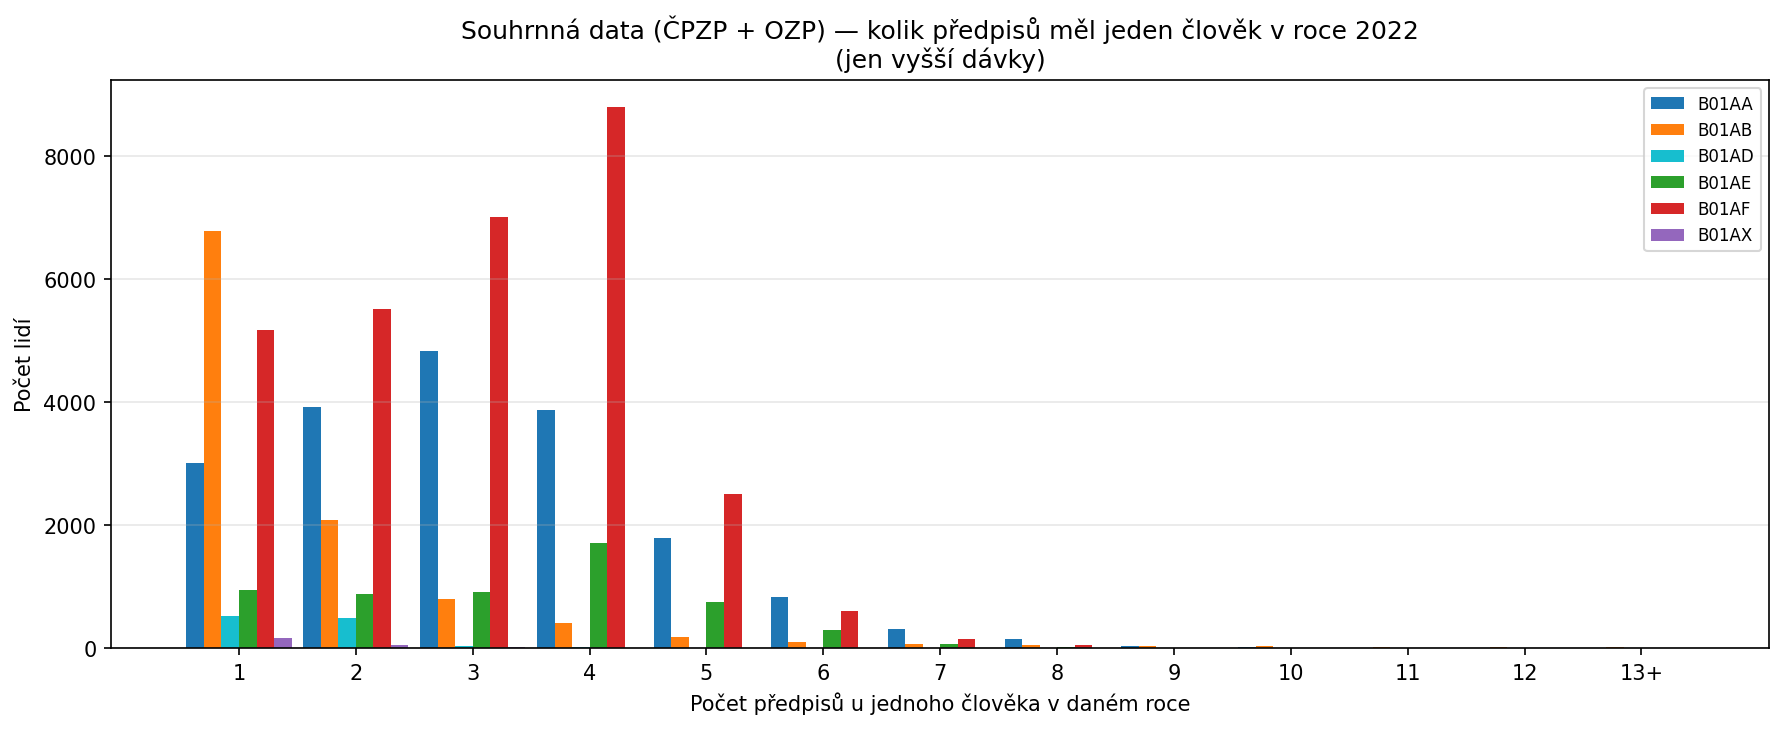
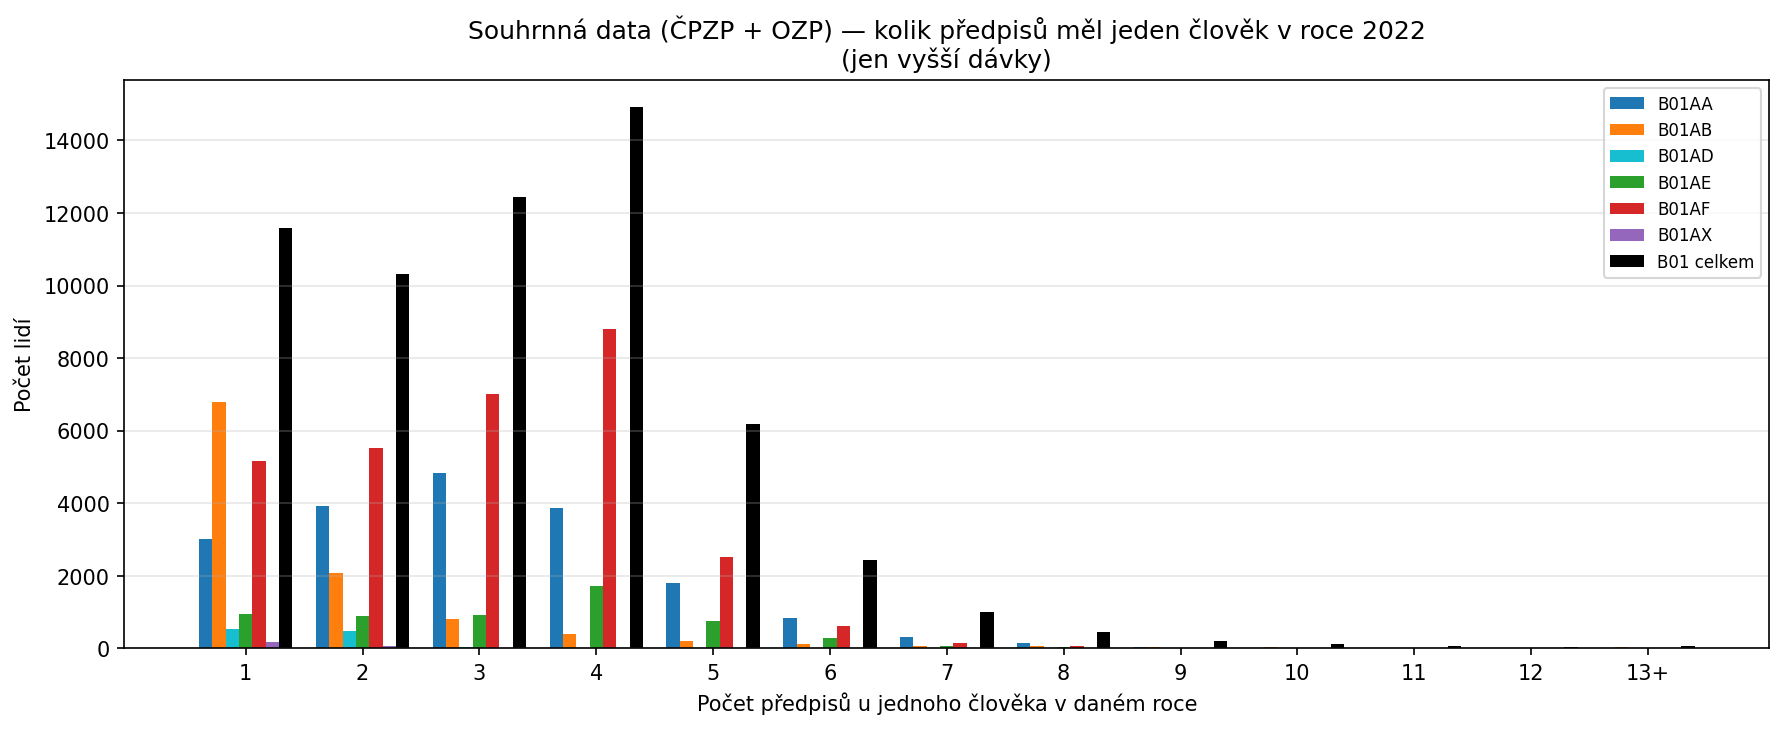
feat(srazlivost): add first-prescription charts, histogram totals and linked chart index

diff --git a/srazlivost/generate_charts.py b/srazlivost/generate_charts.py
@@ -18,7 +18,12 @@ Pro každou pojišťovnu (cpzp, ozp, both_companies) generuje strukturu:
       pro roky 2019–2022: osa x = kolik předpisů dané ATC skupiny měl
       jeden člověk v tom roce, osa y = kolik takových lidí. Sloupec =
       ATC skupina. Jen varianta vyšších dávek (Fraxiparin ≥0,6 ml a
-      terapeutické síly NOAC, viz příloha v charts/README.md).
+      terapeutické síly NOAC, viz příloha v charts/README.md). Černý
+      sloupec "B01 celkem" = předpisy všech skupin u člověka sečtené.
+  charts/<company>/prvopredpisy/<období>/<scope>.png
+      první předpis B01 u člověka v datech, po měsících, očkovaní nad
+      neočkovanými. Preventivní heparin (B01AB mimo jen_vyssi_davky) se
+      nepočítá.
 
 <období>:
   - "2015-2024" — celý rozsah dat, roční popisky osy x
@@ -151,10 +156,10 @@ MONTH_END = date(2023, 12, 1)
 RECENT_START = date(2019, 1, 1)
 
 
-def _read_one(path: Path, id_prefix: str | None) -> pl.LazyFrame:
+def _read_one(path: Path, id_prefix: str | None, cols: list[str]) -> pl.LazyFrame:
     df = (
         pl.scan_csv(path, null_values=["", "NA"], infer_schema_length=20_000)
-        .select(NEEDED_COLS)
+        .select(cols)
         .with_columns(
             pl.col("Id_pojistence").cast(pl.Utf8),
             pl.col("Rok_narozeni").cast(pl.Int64, strict=False),
@@ -169,13 +174,14 @@ def _read_one(path: Path, id_prefix: str | None) -> pl.LazyFrame:
     )
 
 
-def load_company(company: str) -> pl.LazyFrame:
+def load_company(company: str, extra_cols: list[str] | None = None) -> pl.LazyFrame:
+    cols = NEEDED_COLS + (extra_cols or [])
     if company == "both_companies":
-        cpzp = _read_one(OUT_DIR / "CPZP_preskladane.csv", "cpzp:")
-        ozp = _read_one(OUT_DIR / "OZP_preskladane.csv", "ozp:")
+        cpzp = _read_one(OUT_DIR / "CPZP_preskladane.csv", "cpzp:", cols)
+        ozp = _read_one(OUT_DIR / "OZP_preskladane.csv", "ozp:", cols)
         return pl.concat([cpzp, ozp])
     fname = "CPZP_preskladane.csv" if company == "cpzp" else "OZP_preskladane.csv"
-    return _read_one(OUT_DIR / fname, None)
+    return _read_one(OUT_DIR / fname, None, cols)
 
 
 def _sex_agg() -> pl.Expr:
@@ -260,8 +266,8 @@ def build_prescriptions(df: pl.LazyFrame) -> pl.DataFrame:
         )
         .with_columns(_higher_dose_expr().alias("is_higher_dose"))
         .select(
-            "Id_pojistence", "month", "atc5", "age_bucket", "is_vax", "Specializace",
-            "is_higher_dose", "Pohlavi",
+            "Id_pojistence", "Datum_udalosti", "month", "atc5", "age_bucket", "is_vax",
+            "Specializace", "is_higher_dose", "Pohlavi",
         )
     )
     return presc.collect()
@@ -858,6 +864,52 @@ def process_company(
     if extras:
         process_vax_timelines(company)
         process_histograms(company, presc_raw)
+        process_first_prescriptions(company, presc_raw)
+
+
+def first_prescriptions(presc: pl.DataFrame) -> pl.DataFrame:
+    """Jeden řádek na člověka: jeho první předpis z ATC_SUBGROUPS v datech.
+
+    Preventivní heparin se nepočítá (B01AB mimo jen_vyssi_davky, např.
+    Fraxiparin pod 0,6 ml). Kdo má jen ten, prvopředpis nemá. Věk a ATC
+    jsou z toho prvního předpisu."""
+    return (
+        presc.filter(
+            pl.col("atc5").is_in(ATC_SUBGROUPS)
+            & ~((pl.col("atc5") == "B01AB") & ~pl.col("is_higher_dose"))
+        )
+        .sort("Datum_udalosti", "atc5")
+        .unique("Id_pojistence", keep="first", maintain_order=True)
+    )
+
+
+def process_first_prescriptions(company: str, presc_raw: pl.DataFrame | None = None) -> None:
+    label = COMPANY_LABELS[company]
+    print(f"=== {company}: prvopředpisy ===")
+    if presc_raw is None:
+        presc_raw = build_prescriptions(load_company(company))
+    first = first_prescriptions(presc_raw)
+    print(f"  {first.height:,} osob s prvopředpisem")
+    series = atc_series(ATC_SUBGROUPS)
+    for period_slug, period_label, start, monthly_ticks in PERIODS:
+        out_dir = CHARTS_DIR / company / "prvopredpisy" / period_slug
+        for slug, desc, age_scope in AGE_SCOPES:
+            vax_scope = _and(age_scope, pl.col("is_vax"))
+            novax_scope = _and(age_scope, ~pl.col("is_vax"))
+            plot_crosstab_stacked(
+                monthly_atc_counts(first, vax_scope, start=start),
+                monthly_atc_counts(first, novax_scope, start=start),
+                series,
+                f"{label} — první B01 předpis měsíčně: očkovaní vs. neočkovaní "
+                f"({desc}, {period_label}) — bez preventivního heparinu",
+                "Očkovaní",
+                "Neočkovaní",
+                out_dir / f"{slug}.png",
+                n_top=population_size(first, vax_scope),
+                n_bottom=population_size(first, novax_scope),
+                monthly_ticks=monthly_ticks,
+                ylabel="Počet prvopředpisů",
+            )
 
 
 HIST_YEARS = (2019, 2020, 2021, 2022)
@@ -869,15 +921,21 @@ HIST_BIN_CAP = 12
 def prescription_count_bins(
     presc: pl.DataFrame, year: int, subgroups: list[str]
 ) -> dict[str, list[int]]:
-    """Pro každou ATC skupinu počty lidí v koších 1, 2, …, CAP, CAP+.
+    """Pro každou ATC skupinu a pro TOTAL_LABEL počty lidí v koších 1, 2, …, CAP, CAP+.
 
     Člověk s nulou předpisů v dané skupině v tom roce tu není. Kdo má
-    předpisy ve dvou skupinách, je v každé skupině zvlášť (nesčítá se)."""
+    předpisy ve dvou skupinách, je v každé skupině zvlášť. V TOTAL_LABEL
+    se jeho předpisy ze všech `subgroups` sečtou."""
     n_bins = HIST_BIN_CAP + 1
+    year_presc = presc.filter(
+        (pl.col("month").dt.year() == year) & pl.col("atc5").is_in(subgroups)
+    )
+    per_group = year_presc.group_by("Id_pojistence", "atc5").len()
+    per_person = (
+        year_presc.group_by("Id_pojistence").len().with_columns(pl.lit(TOTAL_LABEL).alias("atc5"))
+    )
     counts = (
-        presc.filter((pl.col("month").dt.year() == year) & pl.col("atc5").is_in(subgroups))
-        .group_by("Id_pojistence", "atc5")
-        .len()
+        pl.concat([per_group, per_person.select(per_group.columns)])
         .with_columns(
             pl.when(pl.col("len") > HIST_BIN_CAP)
             .then(pl.lit(HIST_BIN_CAP + 1))
@@ -888,7 +946,7 @@ def prescription_count_bins(
         .len()
         .rename({"len": "people"})
     )
-    out = {atc: [0] * n_bins for atc in subgroups}
+    out = {atc: [0] * n_bins for atc in subgroups + [TOTAL_LABEL]}
     for atc, bin_id, people in zip(
         counts["atc5"].to_list(), counts["bin"].to_list(), counts["people"].to_list()
     ):
@@ -904,16 +962,17 @@ def plot_prescription_count_hist(
 ) -> None:
     labels = [str(i) for i in range(1, HIST_BIN_CAP + 1)] + [f"{HIST_BIN_CAP + 1}+"]
     n_bins = len(labels)
-    width = 0.15
+    bars = subgroups + [TOTAL_LABEL]
+    width = 0.8 / len(bars)
     fig, ax = plt.subplots(figsize=(12, 5))
-    for i, atc in enumerate(subgroups):
-        offset = (i - (len(subgroups) - 1) / 2) * width
+    for i, atc in enumerate(bars):
+        offset = (i - (len(bars) - 1) / 2) * width
         ax.bar(
             [x + offset for x in range(n_bins)],
             bins[atc],
             width=width,
             label=atc,
-            color=ATC_COLORS[atc],
+            color=ATC_COLORS.get(atc, "black"),
         )
     ax.set_xticks(range(n_bins), labels)
     ax.set_title(title)
@@ -966,6 +1025,11 @@ def main() -> None:
         help="Jen histogramy počtu předpisů na osobu (charts/<company>/histogram_vyssi_davky/)",
     )
     parser.add_argument(
+        "--only-first",
+        action="store_true",
+        help="Jen prvopředpisy (charts/<company>/prvopredpisy/)",
+    )
+    parser.add_argument(
         "--variants",
         nargs="+",
         choices=[slug for slug, _, _ in DOSE_VARIANTS],
@@ -975,12 +1039,14 @@ def main() -> None:
     parser.add_argument(
         "--no-extras",
         action="store_true",
-        help="Nepřekreslovat vax_period ani histogramy",
+        help="Nepřekreslovat vax_period, histogramy ani prvopředpisy",
     )
     args = parser.parse_args()
     for company in args.companies:
         if args.only_histogram:
             process_histograms(company)
+        elif args.only_first:
+            process_first_prescriptions(company)
         elif args.only_vax:
             process_vax_timelines(company)
         else:

diff --git a/srazlivost/charts/README.md b/srazlivost/charts/README.md
@@ -2,6 +2,47 @@
 
 Tady jsou grafy počtu předpisů léků na ředění krve (ATC skupina B01) po měsících.
 
+## Rozcestník
+
+Kliknutím se dostaneš rovnou do složky. U každé dávkové varianty jsou uvnitř ještě podsložky `crosstab/vedle_sebe` a `crosstab/nad_sebou` (očkovaní vs. neočkovaní). Co který graf znamená, je popsané níž.
+
+- **[cpzp/](cpzp/)** — ČPZP
+  - [2015-2024/](cpzp/2015-2024/)
+    - [vsichni/](cpzp/2015-2024/vsichni/) — [absolute](cpzp/2015-2024/vsichni/absolute/): [vse](cpzp/2015-2024/vsichni/absolute/vse/) · [jen_vyssi_davky](cpzp/2015-2024/vsichni/absolute/jen_vyssi_davky/) · [bez_heparinu](cpzp/2015-2024/vsichni/absolute/bez_heparinu/) | [relative](cpzp/2015-2024/vsichni/relative/): [vse](cpzp/2015-2024/vsichni/relative/vse/) · [jen_vyssi_davky](cpzp/2015-2024/vsichni/relative/jen_vyssi_davky/) · [bez_heparinu](cpzp/2015-2024/vsichni/relative/bez_heparinu/)
+    - [muzi/](cpzp/2015-2024/muzi/) — [absolute](cpzp/2015-2024/muzi/absolute/): [vse](cpzp/2015-2024/muzi/absolute/vse/) · [jen_vyssi_davky](cpzp/2015-2024/muzi/absolute/jen_vyssi_davky/) · [bez_heparinu](cpzp/2015-2024/muzi/absolute/bez_heparinu/) | [relative](cpzp/2015-2024/muzi/relative/): [vse](cpzp/2015-2024/muzi/relative/vse/) · [jen_vyssi_davky](cpzp/2015-2024/muzi/relative/jen_vyssi_davky/) · [bez_heparinu](cpzp/2015-2024/muzi/relative/bez_heparinu/)
+    - [zeny/](cpzp/2015-2024/zeny/) — [absolute](cpzp/2015-2024/zeny/absolute/): [vse](cpzp/2015-2024/zeny/absolute/vse/) · [jen_vyssi_davky](cpzp/2015-2024/zeny/absolute/jen_vyssi_davky/) · [bez_heparinu](cpzp/2015-2024/zeny/absolute/bez_heparinu/) | [relative](cpzp/2015-2024/zeny/relative/): [vse](cpzp/2015-2024/zeny/relative/vse/) · [jen_vyssi_davky](cpzp/2015-2024/zeny/relative/jen_vyssi_davky/) · [bez_heparinu](cpzp/2015-2024/zeny/relative/bez_heparinu/)
+  - [2019-2024/](cpzp/2019-2024/)
+    - [vsichni/](cpzp/2019-2024/vsichni/) — [absolute](cpzp/2019-2024/vsichni/absolute/): [vse](cpzp/2019-2024/vsichni/absolute/vse/) · [jen_vyssi_davky](cpzp/2019-2024/vsichni/absolute/jen_vyssi_davky/) · [bez_heparinu](cpzp/2019-2024/vsichni/absolute/bez_heparinu/) | [relative](cpzp/2019-2024/vsichni/relative/): [vse](cpzp/2019-2024/vsichni/relative/vse/) · [jen_vyssi_davky](cpzp/2019-2024/vsichni/relative/jen_vyssi_davky/) · [bez_heparinu](cpzp/2019-2024/vsichni/relative/bez_heparinu/)
+    - [muzi/](cpzp/2019-2024/muzi/) — [absolute](cpzp/2019-2024/muzi/absolute/): [vse](cpzp/2019-2024/muzi/absolute/vse/) · [jen_vyssi_davky](cpzp/2019-2024/muzi/absolute/jen_vyssi_davky/) · [bez_heparinu](cpzp/2019-2024/muzi/absolute/bez_heparinu/) | [relative](cpzp/2019-2024/muzi/relative/): [vse](cpzp/2019-2024/muzi/relative/vse/) · [jen_vyssi_davky](cpzp/2019-2024/muzi/relative/jen_vyssi_davky/) · [bez_heparinu](cpzp/2019-2024/muzi/relative/bez_heparinu/)
+    - [zeny/](cpzp/2019-2024/zeny/) — [absolute](cpzp/2019-2024/zeny/absolute/): [vse](cpzp/2019-2024/zeny/absolute/vse/) · [jen_vyssi_davky](cpzp/2019-2024/zeny/absolute/jen_vyssi_davky/) · [bez_heparinu](cpzp/2019-2024/zeny/absolute/bez_heparinu/) | [relative](cpzp/2019-2024/zeny/relative/): [vse](cpzp/2019-2024/zeny/relative/vse/) · [jen_vyssi_davky](cpzp/2019-2024/zeny/relative/jen_vyssi_davky/) · [bez_heparinu](cpzp/2019-2024/zeny/relative/bez_heparinu/)
+  - [vax_period/](cpzp/vax_period/) — očkování po dávkách: [vsichni](cpzp/vax_period/vsichni/) · [muzi](cpzp/vax_period/muzi/) · [zeny](cpzp/vax_period/zeny/)
+  - [prvopredpisy/](cpzp/prvopredpisy/) — první předpis: [2015-2024](cpzp/prvopredpisy/2015-2024/) · [2019-2024](cpzp/prvopredpisy/2019-2024/)
+  - [histogram_vyssi_davky/](cpzp/histogram_vyssi_davky/) — kolikrát měl kdo předpis (2019–2022)
+- **[ozp/](ozp/)** — OZP
+  - [2015-2024/](ozp/2015-2024/)
+    - [vsichni/](ozp/2015-2024/vsichni/) — [absolute](ozp/2015-2024/vsichni/absolute/): [vse](ozp/2015-2024/vsichni/absolute/vse/) · [jen_vyssi_davky](ozp/2015-2024/vsichni/absolute/jen_vyssi_davky/) · [bez_heparinu](ozp/2015-2024/vsichni/absolute/bez_heparinu/) | [relative](ozp/2015-2024/vsichni/relative/): [vse](ozp/2015-2024/vsichni/relative/vse/) · [jen_vyssi_davky](ozp/2015-2024/vsichni/relative/jen_vyssi_davky/) · [bez_heparinu](ozp/2015-2024/vsichni/relative/bez_heparinu/)
+    - [muzi/](ozp/2015-2024/muzi/) — [absolute](ozp/2015-2024/muzi/absolute/): [vse](ozp/2015-2024/muzi/absolute/vse/) · [jen_vyssi_davky](ozp/2015-2024/muzi/absolute/jen_vyssi_davky/) · [bez_heparinu](ozp/2015-2024/muzi/absolute/bez_heparinu/) | [relative](ozp/2015-2024/muzi/relative/): [vse](ozp/2015-2024/muzi/relative/vse/) · [jen_vyssi_davky](ozp/2015-2024/muzi/relative/jen_vyssi_davky/) · [bez_heparinu](ozp/2015-2024/muzi/relative/bez_heparinu/)
+    - [zeny/](ozp/2015-2024/zeny/) — [absolute](ozp/2015-2024/zeny/absolute/): [vse](ozp/2015-2024/zeny/absolute/vse/) · [jen_vyssi_davky](ozp/2015-2024/zeny/absolute/jen_vyssi_davky/) · [bez_heparinu](ozp/2015-2024/zeny/absolute/bez_heparinu/) | [relative](ozp/2015-2024/zeny/relative/): [vse](ozp/2015-2024/zeny/relative/vse/) · [jen_vyssi_davky](ozp/2015-2024/zeny/relative/jen_vyssi_davky/) · [bez_heparinu](ozp/2015-2024/zeny/relative/bez_heparinu/)
+  - [2019-2024/](ozp/2019-2024/)
+    - [vsichni/](ozp/2019-2024/vsichni/) — [absolute](ozp/2019-2024/vsichni/absolute/): [vse](ozp/2019-2024/vsichni/absolute/vse/) · [jen_vyssi_davky](ozp/2019-2024/vsichni/absolute/jen_vyssi_davky/) · [bez_heparinu](ozp/2019-2024/vsichni/absolute/bez_heparinu/) | [relative](ozp/2019-2024/vsichni/relative/): [vse](ozp/2019-2024/vsichni/relative/vse/) · [jen_vyssi_davky](ozp/2019-2024/vsichni/relative/jen_vyssi_davky/) · [bez_heparinu](ozp/2019-2024/vsichni/relative/bez_heparinu/)
+    - [muzi/](ozp/2019-2024/muzi/) — [absolute](ozp/2019-2024/muzi/absolute/): [vse](ozp/2019-2024/muzi/absolute/vse/) · [jen_vyssi_davky](ozp/2019-2024/muzi/absolute/jen_vyssi_davky/) · [bez_heparinu](ozp/2019-2024/muzi/absolute/bez_heparinu/) | [relative](ozp/2019-2024/muzi/relative/): [vse](ozp/2019-2024/muzi/relative/vse/) · [jen_vyssi_davky](ozp/2019-2024/muzi/relative/jen_vyssi_davky/) · [bez_heparinu](ozp/2019-2024/muzi/relative/bez_heparinu/)
+    - [zeny/](ozp/2019-2024/zeny/) — [absolute](ozp/2019-2024/zeny/absolute/): [vse](ozp/2019-2024/zeny/absolute/vse/) · [jen_vyssi_davky](ozp/2019-2024/zeny/absolute/jen_vyssi_davky/) · [bez_heparinu](ozp/2019-2024/zeny/absolute/bez_heparinu/) | [relative](ozp/2019-2024/zeny/relative/): [vse](ozp/2019-2024/zeny/relative/vse/) · [jen_vyssi_davky](ozp/2019-2024/zeny/relative/jen_vyssi_davky/) · [bez_heparinu](ozp/2019-2024/zeny/relative/bez_heparinu/)
+  - [vax_period/](ozp/vax_period/) — očkování po dávkách: [vsichni](ozp/vax_period/vsichni/) · [muzi](ozp/vax_period/muzi/) · [zeny](ozp/vax_period/zeny/)
+  - [prvopredpisy/](ozp/prvopredpisy/) — první předpis: [2015-2024](ozp/prvopredpisy/2015-2024/) · [2019-2024](ozp/prvopredpisy/2019-2024/)
+  - [histogram_vyssi_davky/](ozp/histogram_vyssi_davky/) — kolikrát měl kdo předpis (2019–2022)
+- **[both_companies/](both_companies/)** — obě pojišťovny
+  - [2015-2024/](both_companies/2015-2024/)
+    - [vsichni/](both_companies/2015-2024/vsichni/) — [absolute](both_companies/2015-2024/vsichni/absolute/): [vse](both_companies/2015-2024/vsichni/absolute/vse/) · [jen_vyssi_davky](both_companies/2015-2024/vsichni/absolute/jen_vyssi_davky/) · [bez_heparinu](both_companies/2015-2024/vsichni/absolute/bez_heparinu/) | [relative](both_companies/2015-2024/vsichni/relative/): [vse](both_companies/2015-2024/vsichni/relative/vse/) · [jen_vyssi_davky](both_companies/2015-2024/vsichni/relative/jen_vyssi_davky/) · [bez_heparinu](both_companies/2015-2024/vsichni/relative/bez_heparinu/)
+    - [muzi/](both_companies/2015-2024/muzi/) — [absolute](both_companies/2015-2024/muzi/absolute/): [vse](both_companies/2015-2024/muzi/absolute/vse/) · [jen_vyssi_davky](both_companies/2015-2024/muzi/absolute/jen_vyssi_davky/) · [bez_heparinu](both_companies/2015-2024/muzi/absolute/bez_heparinu/) | [relative](both_companies/2015-2024/muzi/relative/): [vse](both_companies/2015-2024/muzi/relative/vse/) · [jen_vyssi_davky](both_companies/2015-2024/muzi/relative/jen_vyssi_davky/) · [bez_heparinu](both_companies/2015-2024/muzi/relative/bez_heparinu/)
+    - [zeny/](both_companies/2015-2024/zeny/) — [absolute](both_companies/2015-2024/zeny/absolute/): [vse](both_companies/2015-2024/zeny/absolute/vse/) · [jen_vyssi_davky](both_companies/2015-2024/zeny/absolute/jen_vyssi_davky/) · [bez_heparinu](both_companies/2015-2024/zeny/absolute/bez_heparinu/) | [relative](both_companies/2015-2024/zeny/relative/): [vse](both_companies/2015-2024/zeny/relative/vse/) · [jen_vyssi_davky](both_companies/2015-2024/zeny/relative/jen_vyssi_davky/) · [bez_heparinu](both_companies/2015-2024/zeny/relative/bez_heparinu/)
+  - [2019-2024/](both_companies/2019-2024/)
+    - [vsichni/](both_companies/2019-2024/vsichni/) — [absolute](both_companies/2019-2024/vsichni/absolute/): [vse](both_companies/2019-2024/vsichni/absolute/vse/) · [jen_vyssi_davky](both_companies/2019-2024/vsichni/absolute/jen_vyssi_davky/) · [bez_heparinu](both_companies/2019-2024/vsichni/absolute/bez_heparinu/) | [relative](both_companies/2019-2024/vsichni/relative/): [vse](both_companies/2019-2024/vsichni/relative/vse/) · [jen_vyssi_davky](both_companies/2019-2024/vsichni/relative/jen_vyssi_davky/) · [bez_heparinu](both_companies/2019-2024/vsichni/relative/bez_heparinu/)
+    - [muzi/](both_companies/2019-2024/muzi/) — [absolute](both_companies/2019-2024/muzi/absolute/): [vse](both_companies/2019-2024/muzi/absolute/vse/) · [jen_vyssi_davky](both_companies/2019-2024/muzi/absolute/jen_vyssi_davky/) · [bez_heparinu](both_companies/2019-2024/muzi/absolute/bez_heparinu/) | [relative](both_companies/2019-2024/muzi/relative/): [vse](both_companies/2019-2024/muzi/relative/vse/) · [jen_vyssi_davky](both_companies/2019-2024/muzi/relative/jen_vyssi_davky/) · [bez_heparinu](both_companies/2019-2024/muzi/relative/bez_heparinu/)
+    - [zeny/](both_companies/2019-2024/zeny/) — [absolute](both_companies/2019-2024/zeny/absolute/): [vse](both_companies/2019-2024/zeny/absolute/vse/) · [jen_vyssi_davky](both_companies/2019-2024/zeny/absolute/jen_vyssi_davky/) · [bez_heparinu](both_companies/2019-2024/zeny/absolute/bez_heparinu/) | [relative](both_companies/2019-2024/zeny/relative/): [vse](both_companies/2019-2024/zeny/relative/vse/) · [jen_vyssi_davky](both_companies/2019-2024/zeny/relative/jen_vyssi_davky/) · [bez_heparinu](both_companies/2019-2024/zeny/relative/bez_heparinu/)
+  - [vax_period/](both_companies/vax_period/) — očkování po dávkách: [vsichni](both_companies/vax_period/vsichni/) · [muzi](both_companies/vax_period/muzi/) · [zeny](both_companies/vax_period/zeny/)
+  - [prvopredpisy/](both_companies/prvopredpisy/) — první předpis: [2015-2024](both_companies/prvopredpisy/2015-2024/) · [2019-2024](both_companies/prvopredpisy/2019-2024/)
+  - [histogram_vyssi_davky/](both_companies/histogram_vyssi_davky/) — kolikrát měl kdo předpis (2019–2022)
+
 ## Co znamenají zkratky léků
 
 - **B01AA** — warfarin
@@ -80,7 +121,19 @@ Je rozdělený stejně na `vsichni/`, `muzi/` a `zeny/`. Soubory jsou po stejný
 
 `histogram_vyssi_davky/<rok>.png` — roky 2019, 2020, 2021 a 2022, zvlášť. Tady se muži a ženy nerozlišují. Osa x je počet předpisů **jedné** ATC skupiny u jednoho člověka v tom roce (1, 2, … 12, poslední sloupec je 13 a víc). Osa y je počet lidí s právě tolika předpisy. Barva sloupce je ATC skupina.
 
+Černý sloupec **B01 celkem** je počet předpisů ze všech skupin u jednoho člověka sečtený dohromady. Kdo má v roce 3× warfarin a 2× rivaroxaban, je v celkem ve sloupci 5.
+
 Platí stejný filtr jako `jen_vyssi_davky` (příloha na konci). Člověk s nulou v dané skupině v grafu není. Kdo má třeba warfarin i rivaroxaban, je ve dvou skupinách zvlášť, dohromady se to nesčítá.
+
+## Prvopředpisy
+
+`prvopredpisy/<období>/<věk>.png` — kolik lidí dostalo v daném měsíci svůj **první** předpis B01 v datech. Očkovaní jsou nahoře, neočkovaní dole, osa x je sdílená (stejně jako `crosstab/nad_sebou`). Barva čáry je ATC skupina toho prvního předpisu, černá čárkovaná je součet.
+
+- Preventivní heparin se nepočítá. To je každý B01AB, který není ve `jen_vyssi_davky` (příloha na konci), např. Fraxiparin 0,3 a 0,4 ml nebo enoxaparin. Bývá po zlomenině nebo operaci. Kdo měl nejdřív preventivní heparin a pak třeba warfarin, má prvopředpis v den warfarinu. Kdo měl jen preventivní heparin, v grafu není.
+- Ostatní léky se berou bez filtru síly.
+- „První“ znamená první v našich datech, ta začínají v lednu 2015. Lidé, kteří už léky brali před rokem 2015, mají „prvopředpis“ v prvních měsících roku 2015, takže začátek grafu `2015-2024` je uměle vysoký.
+- Věk je věk při prvním předpisu. N v titulku = počet lidí s prvopředpisem v té skupině.
+- Muži a ženy se tu nerozlišují.
 
 ## Specializace
 
